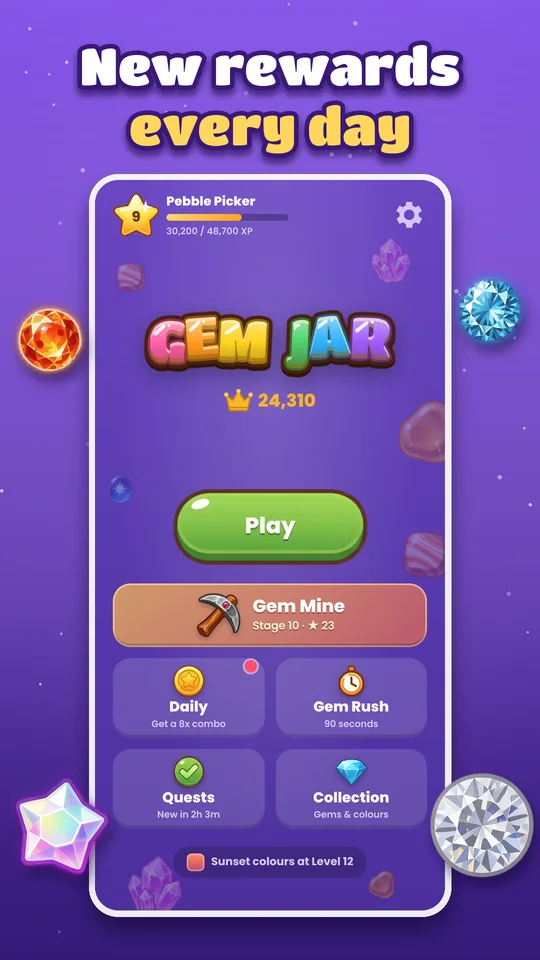
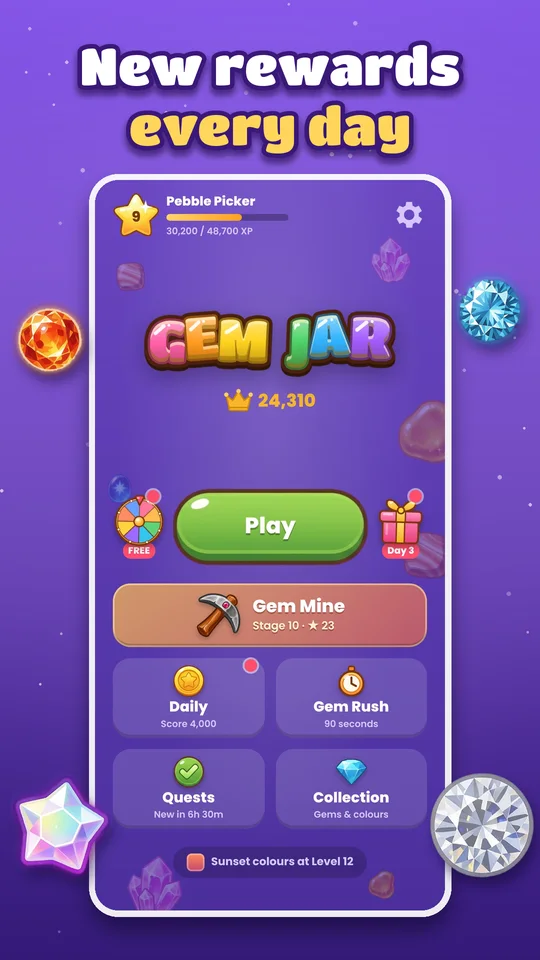
Website: Gem Jar's Daily Gift and Lucky Wheel on its page and in its privacy policy
The Gem Jar page lists the Daily Gift and the Lucky Wheel among the daily
things, the boosters card names Undo, and the last screenshot shows the menu
with both. The privacy policy's list of reward videos names the new ones
(a booster, a spin of the wheel, a doubled gift, double points for a while).

Claude-Session: https://claude.ai/code/session_014gobheM9XG1GV5X2tuF5zD

diff --git a/site/gemjar/privacy/index.html b/site/gemjar/privacy/index.html
@@ -30,7 +30,7 @@ nav a { color: var(--muted); }
 <main>
 <nav><a href="/apps/gemjar/">← Gem Jar</a><a href="/gemjar/terms/">Terms of Service</a></nav>
 <h1>Gem Jar privacy policy</h1>
-<p class="updated">Last updated: 7 November 2026</p>
+<p class="updated">Last updated: 11 November 2026</p>
 <p class="summary">Gem Jar has no accounts and no analytics, and your game is saved only on your phone; we never receive it. The Android app shows ads from Google AdMob, which collects some device data to show and measure them. The optional No Ads purchase is handled entirely by Google Play.</p>
 <h2>Who we are</h2>
 <p>This policy covers Gem Jar, a gem-merging puzzle game, for Android (package com.sinadehesh.gemjar) and its web version. “We” means Gem Jar’s developer, the developer named on Gem Jar’s Google Play page. Contact details are at the end of this policy.</p>
@@ -59,7 +59,7 @@ nav a { color: var(--muted); }
 <ul>
 <li>a banner under the game;</li>
 <li>a full-screen ad between games, at most once a minute, never during a game or a Gem Mine stage, and none in the first three Gem Mine stages;</li>
-<li>a short video you can choose to watch for a reward: to keep going when the jar fills up, for 5 more drops in the Gem Mine, or for a free Zap before a boss stage. These play only when you tap to watch one.</li>
+<li>short videos you can choose to watch for a reward, such as keeping a game going when the jar fills up, a booster, more drops in the Gem Mine, another spin of the Lucky Wheel, a doubled gift, or double points for ten minutes. These play only when you tap to watch one.</li>
 </ul>
 <p>To show ads, measure them and prevent fraud, AdMob collects and shares with Google:</p>
 <ul>

diff --git a/site/apps/gemjar/index.html b/site/apps/gemjar/index.html
@@ -201,12 +201,12 @@ footer a { color: var(--muted); }
       <h2 class="display">Something new <span>every day</span></h2>
       <p class="sub">Short games when you have a minute, long ones when you want to relax.</p>
       <div class="cards">
+        <div class="card"><div class="ico">🎁</div><h3>Daily Gift</h3><p>A bigger gift every day you come back, seven days in a row.</p></div>
+        <div class="card"><div class="ico">🎡</div><h3>Lucky Wheel</h3><p>A free spin every day, and every slice has the same chance.</p></div>
         <div class="card"><div class="ico">📅</div><h3>Daily challenge</h3><p>A new goal every day, with a reward for finishing it.</p></div>
         <div class="card"><div class="ico">⏱</div><h3>Gem Rush</h3><p>How high can you score in 90 seconds?</p></div>
         <div class="card"><div class="ico">✅</div><h3>Quests</h3><p>Fresh quests every few hours, each with a reward.</p></div>
-        <div class="card"><div class="ico">⭐</div><h3>200 levels</h3><p>Climb levels for rewards, titles and new jar colours.</p></div>
-        <div class="card"><div class="ico">⚡</div><h3>Boosters</h3><p>Zap a gem out of the way, or use a Star to lift any gem one level up.</p></div>
-        <div class="card"><div class="ico">🎵</div><h3>Made to relax</h3><p>Calm music, soft pops and gentle buzzes, all of which you can turn off.</p></div>
+        <div class="card"><div class="ico">⚡</div><h3>Levels and boosters</h3><p>200 levels with rewards and new jar colours. Zap a gem away, lift one with a Star, or Undo your last drop.</p></div>
       </div>
     </div>
   </section>
